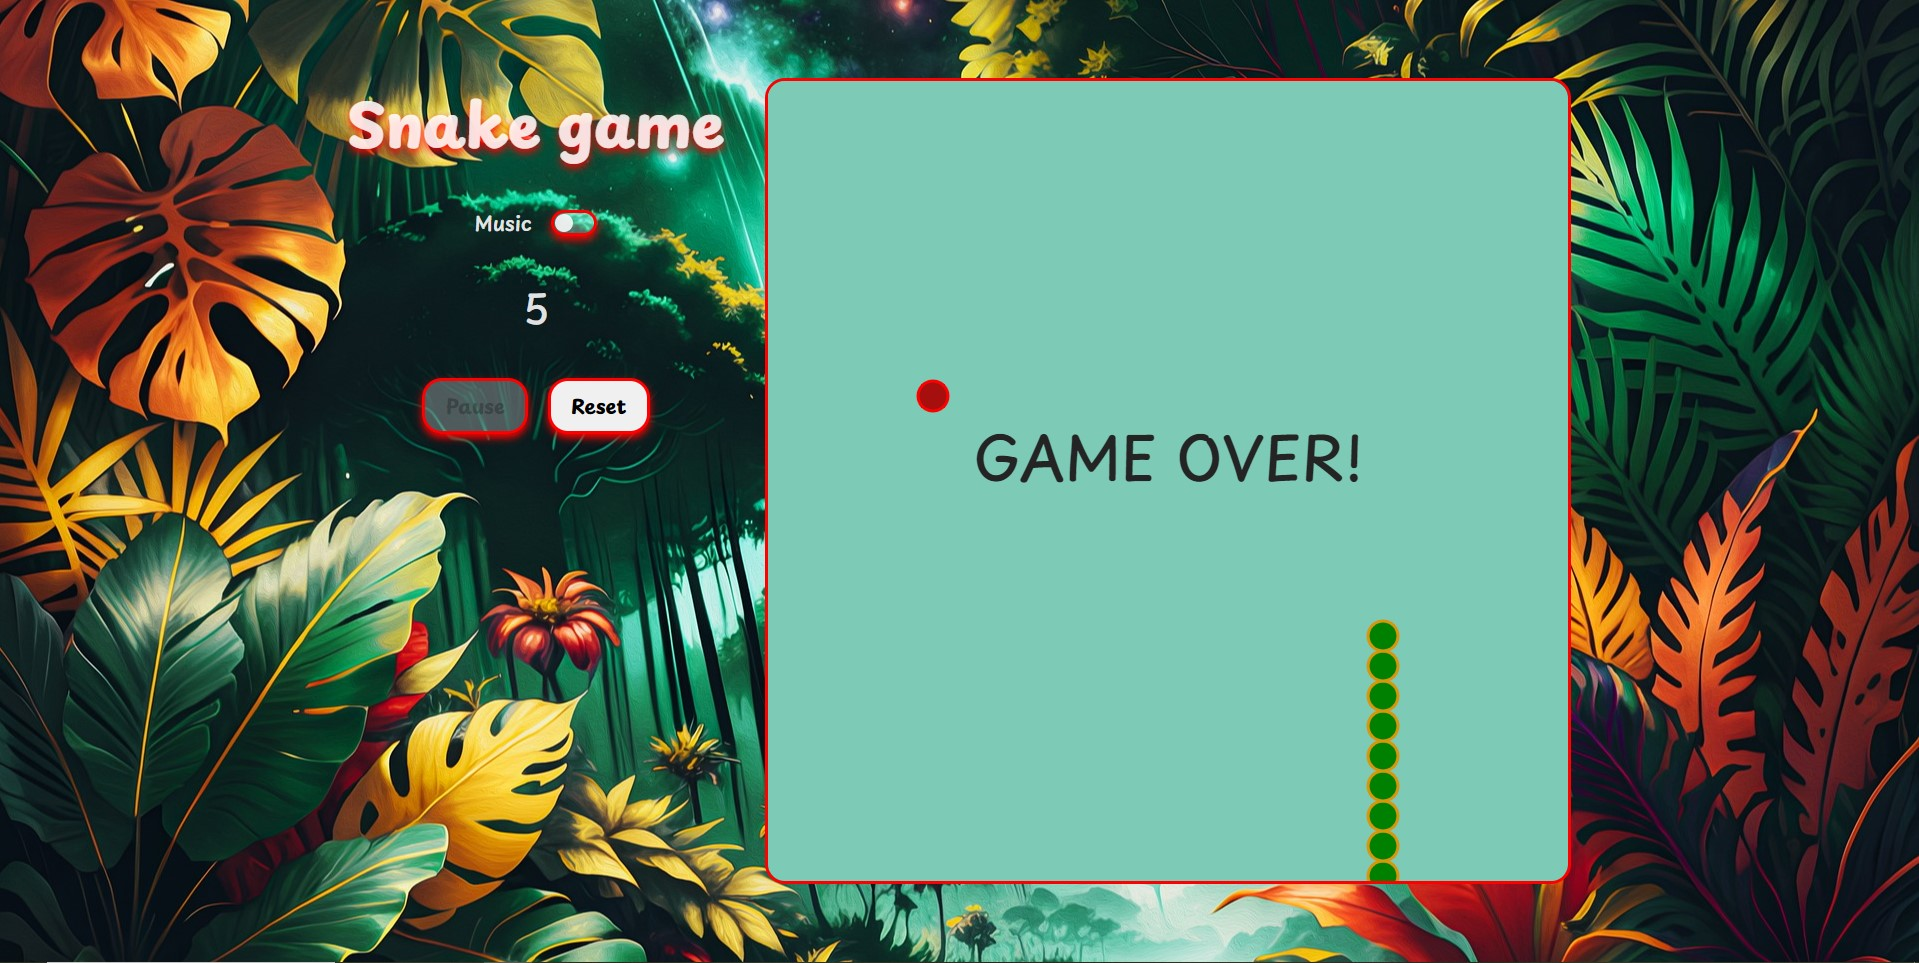
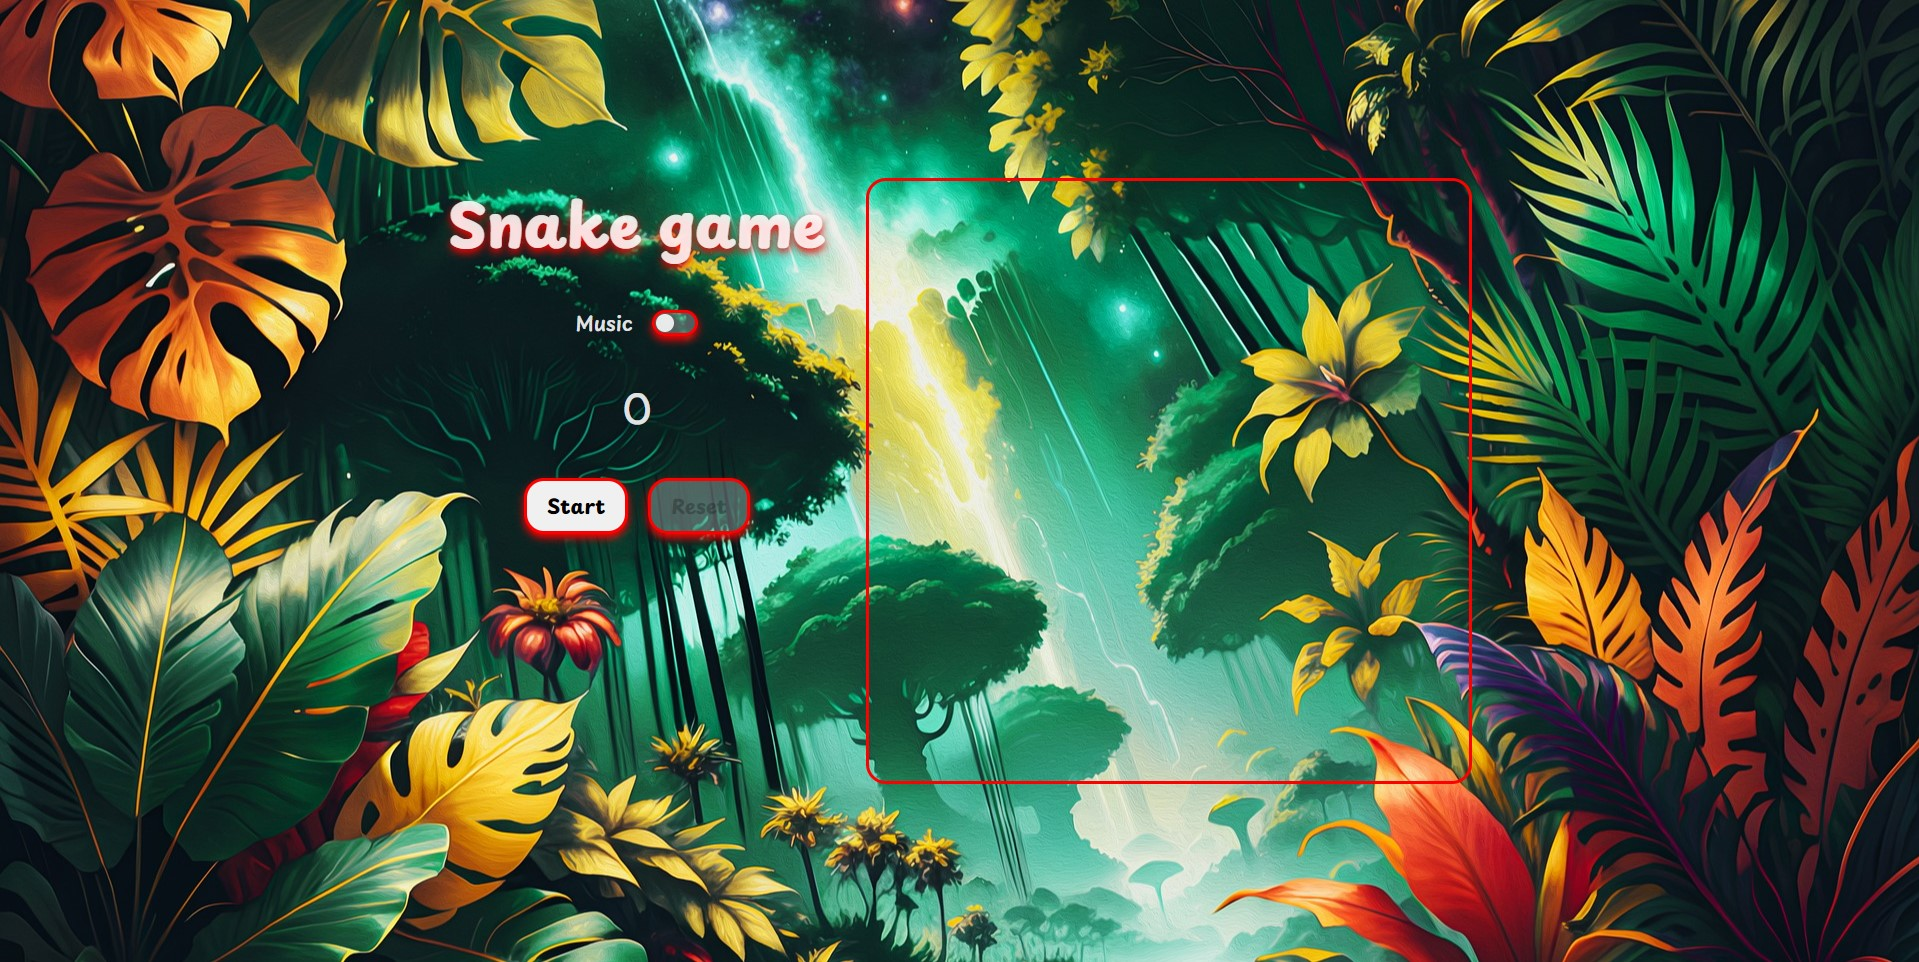
fix nextStep

diff --git a/main.js b/main.js
@@ -9,7 +9,7 @@ const toggleText = document.getElementById("toggleText");
 
 const gameWidth = gameBoard.width;
 const gameHeight = gameBoard.height;
-const unitSize = 30;
+const unitSize = 20;
 const boardBackground = "rgb(125, 202, 182)";
 
 const snakeColor = "green";
@@ -75,6 +75,7 @@ function startGame(event) {
     displayPause();
   }
 }
+
 function nextStep() {
   if (running) {
     setTimeout(() => {
@@ -85,7 +86,7 @@ function nextStep() {
       checkGameOver();
       nextStep();
     }, 250);
-  } else {
+  } else if (!running) {
     if (pause) {
       displayPause();
     } else {

diff --git a/index.html b/index.html
@@ -40,7 +40,7 @@
       <audio id="crashSound" src="audio/sound/3-egg-shaker-rolls-32718.mp3"></audio>
       <audio id="eatSound" src="audio/sound/snake-hissing-6092.mp3"></audio>
     </div>
-    <canvas id="gameBoard" class="game-board" height="800" width="800"></canvas>
+    <canvas id="gameBoard" class="game-board" height="600" width="600"></canvas>
   </div>
 
   <script type="module" src="/main.js"></script>

diff --git a/README.md b/README.md
@@ -11,6 +11,6 @@
 <li>JS</li>
 </ul>
 
-![game](/public/Screenshot_1.jpg)
+![game](/public/Screenshot_3.jpg)
 
 December 2023
